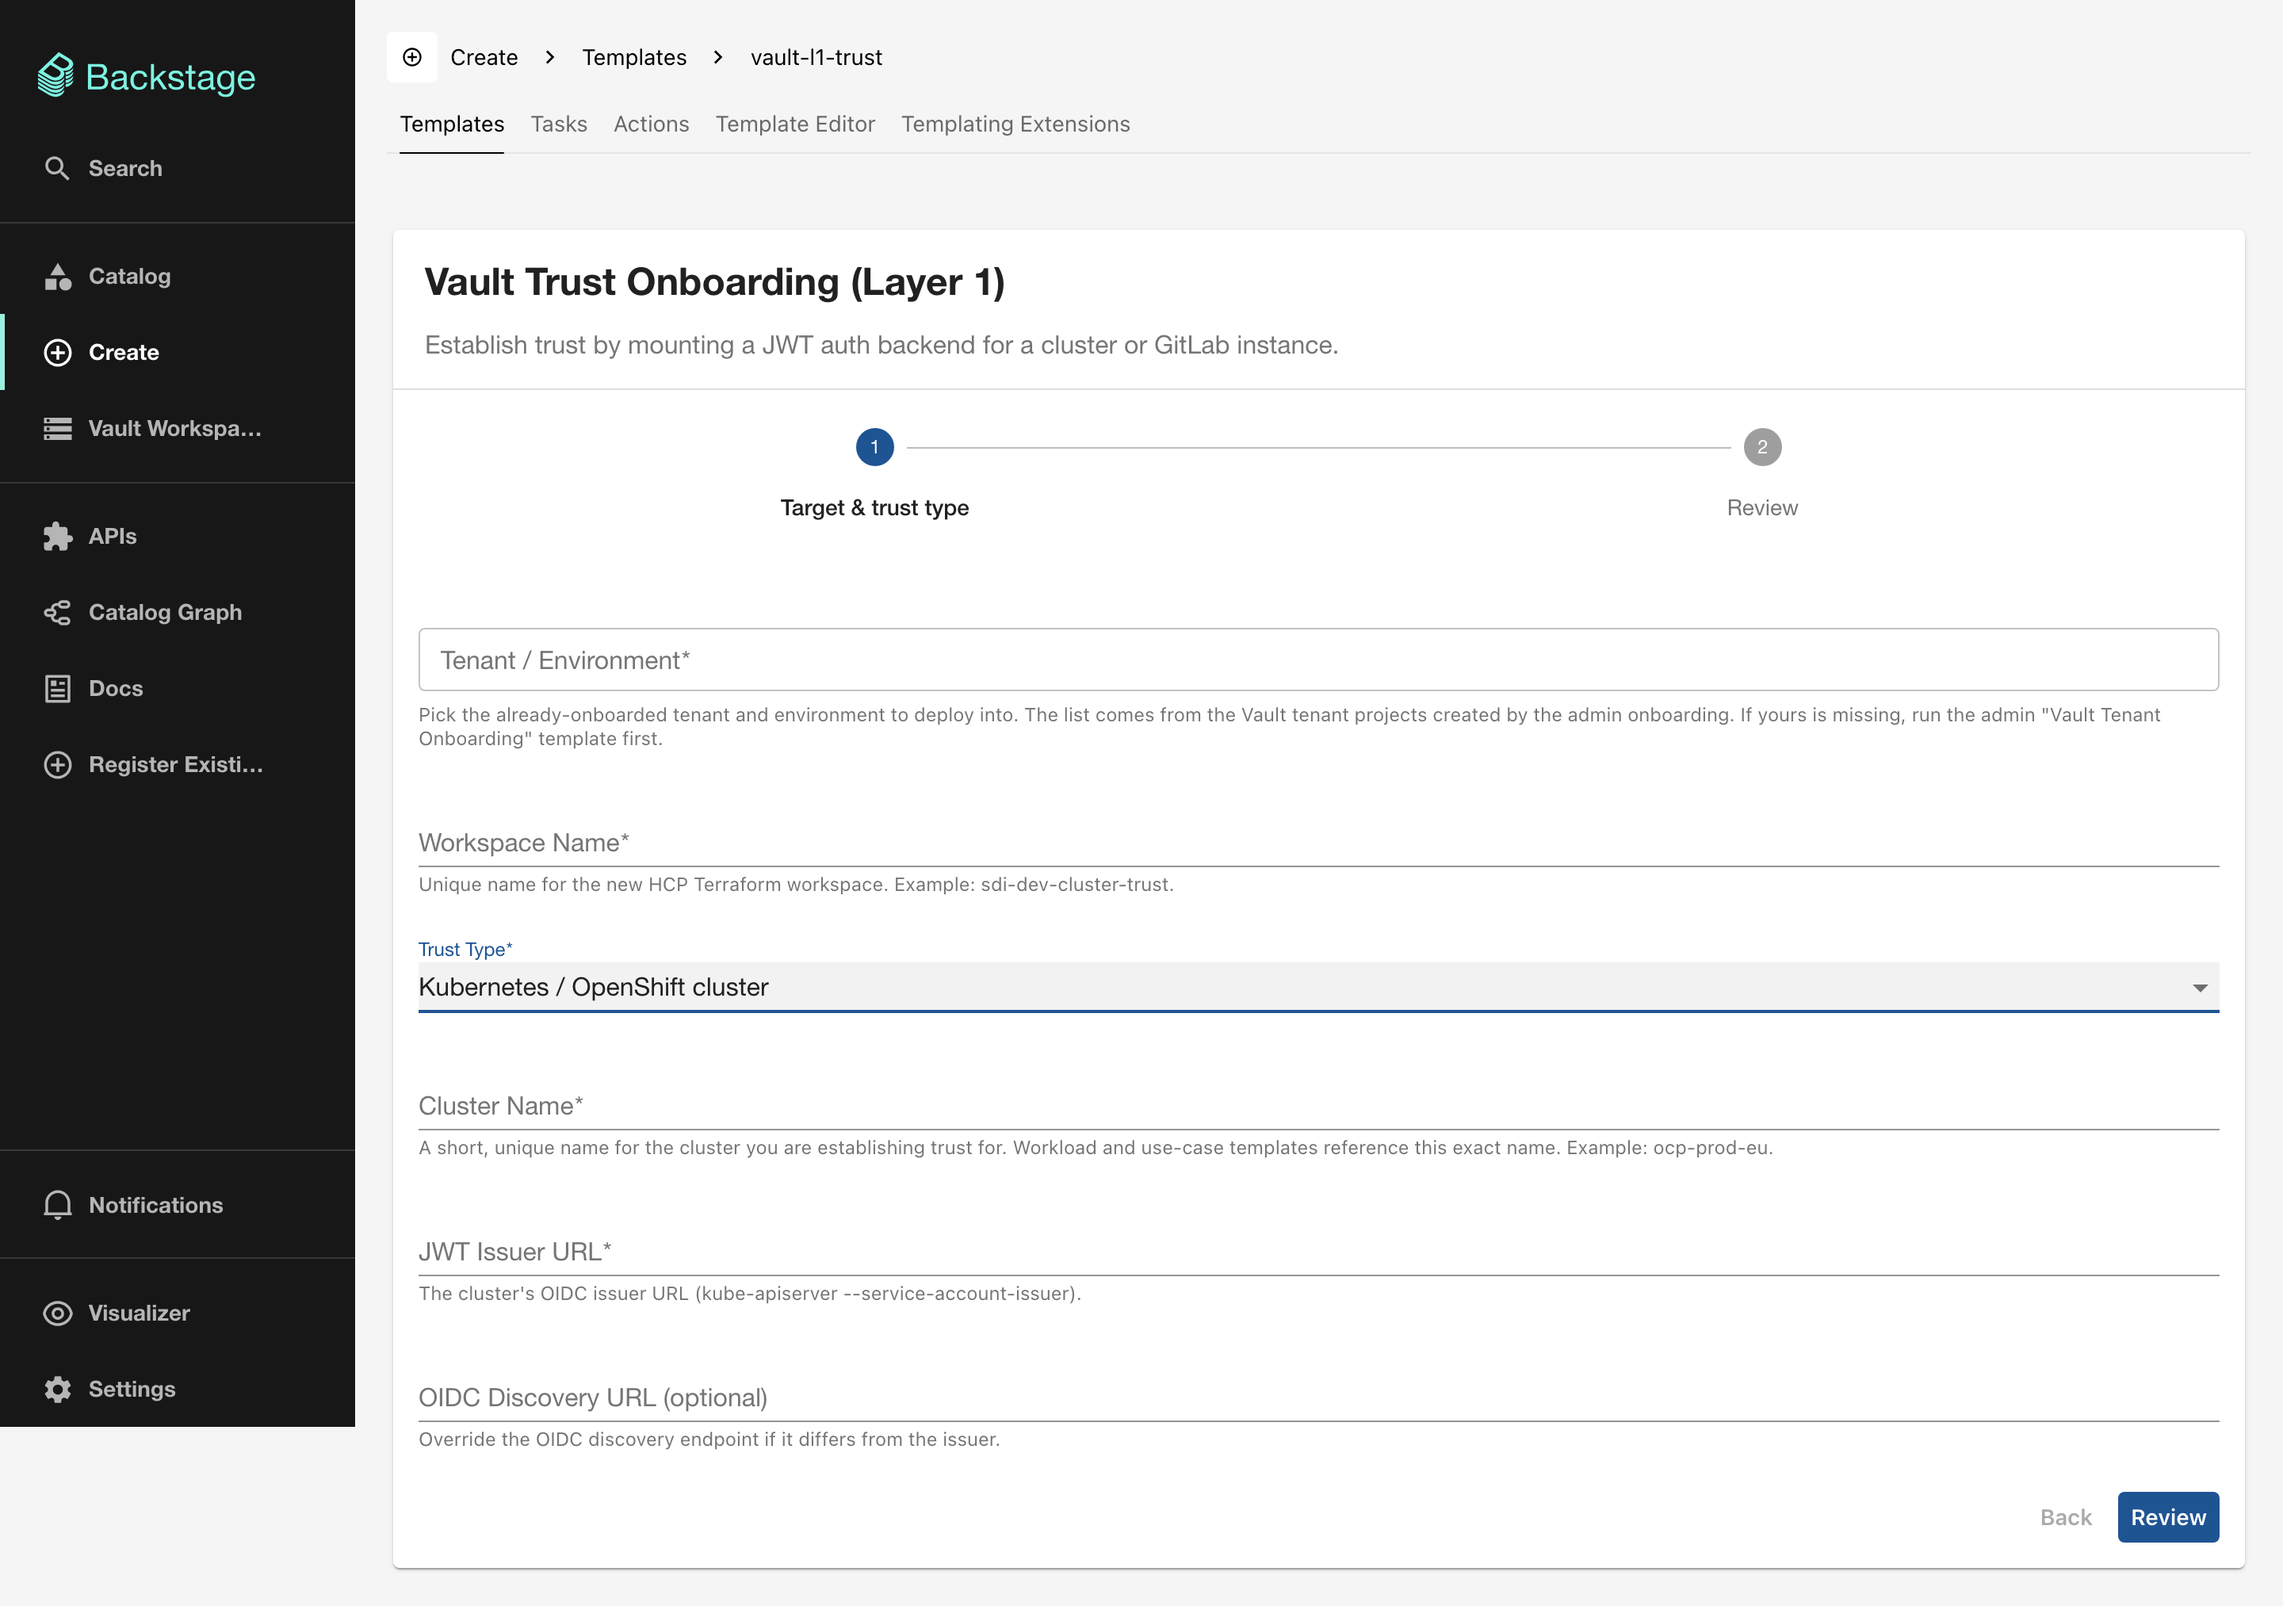
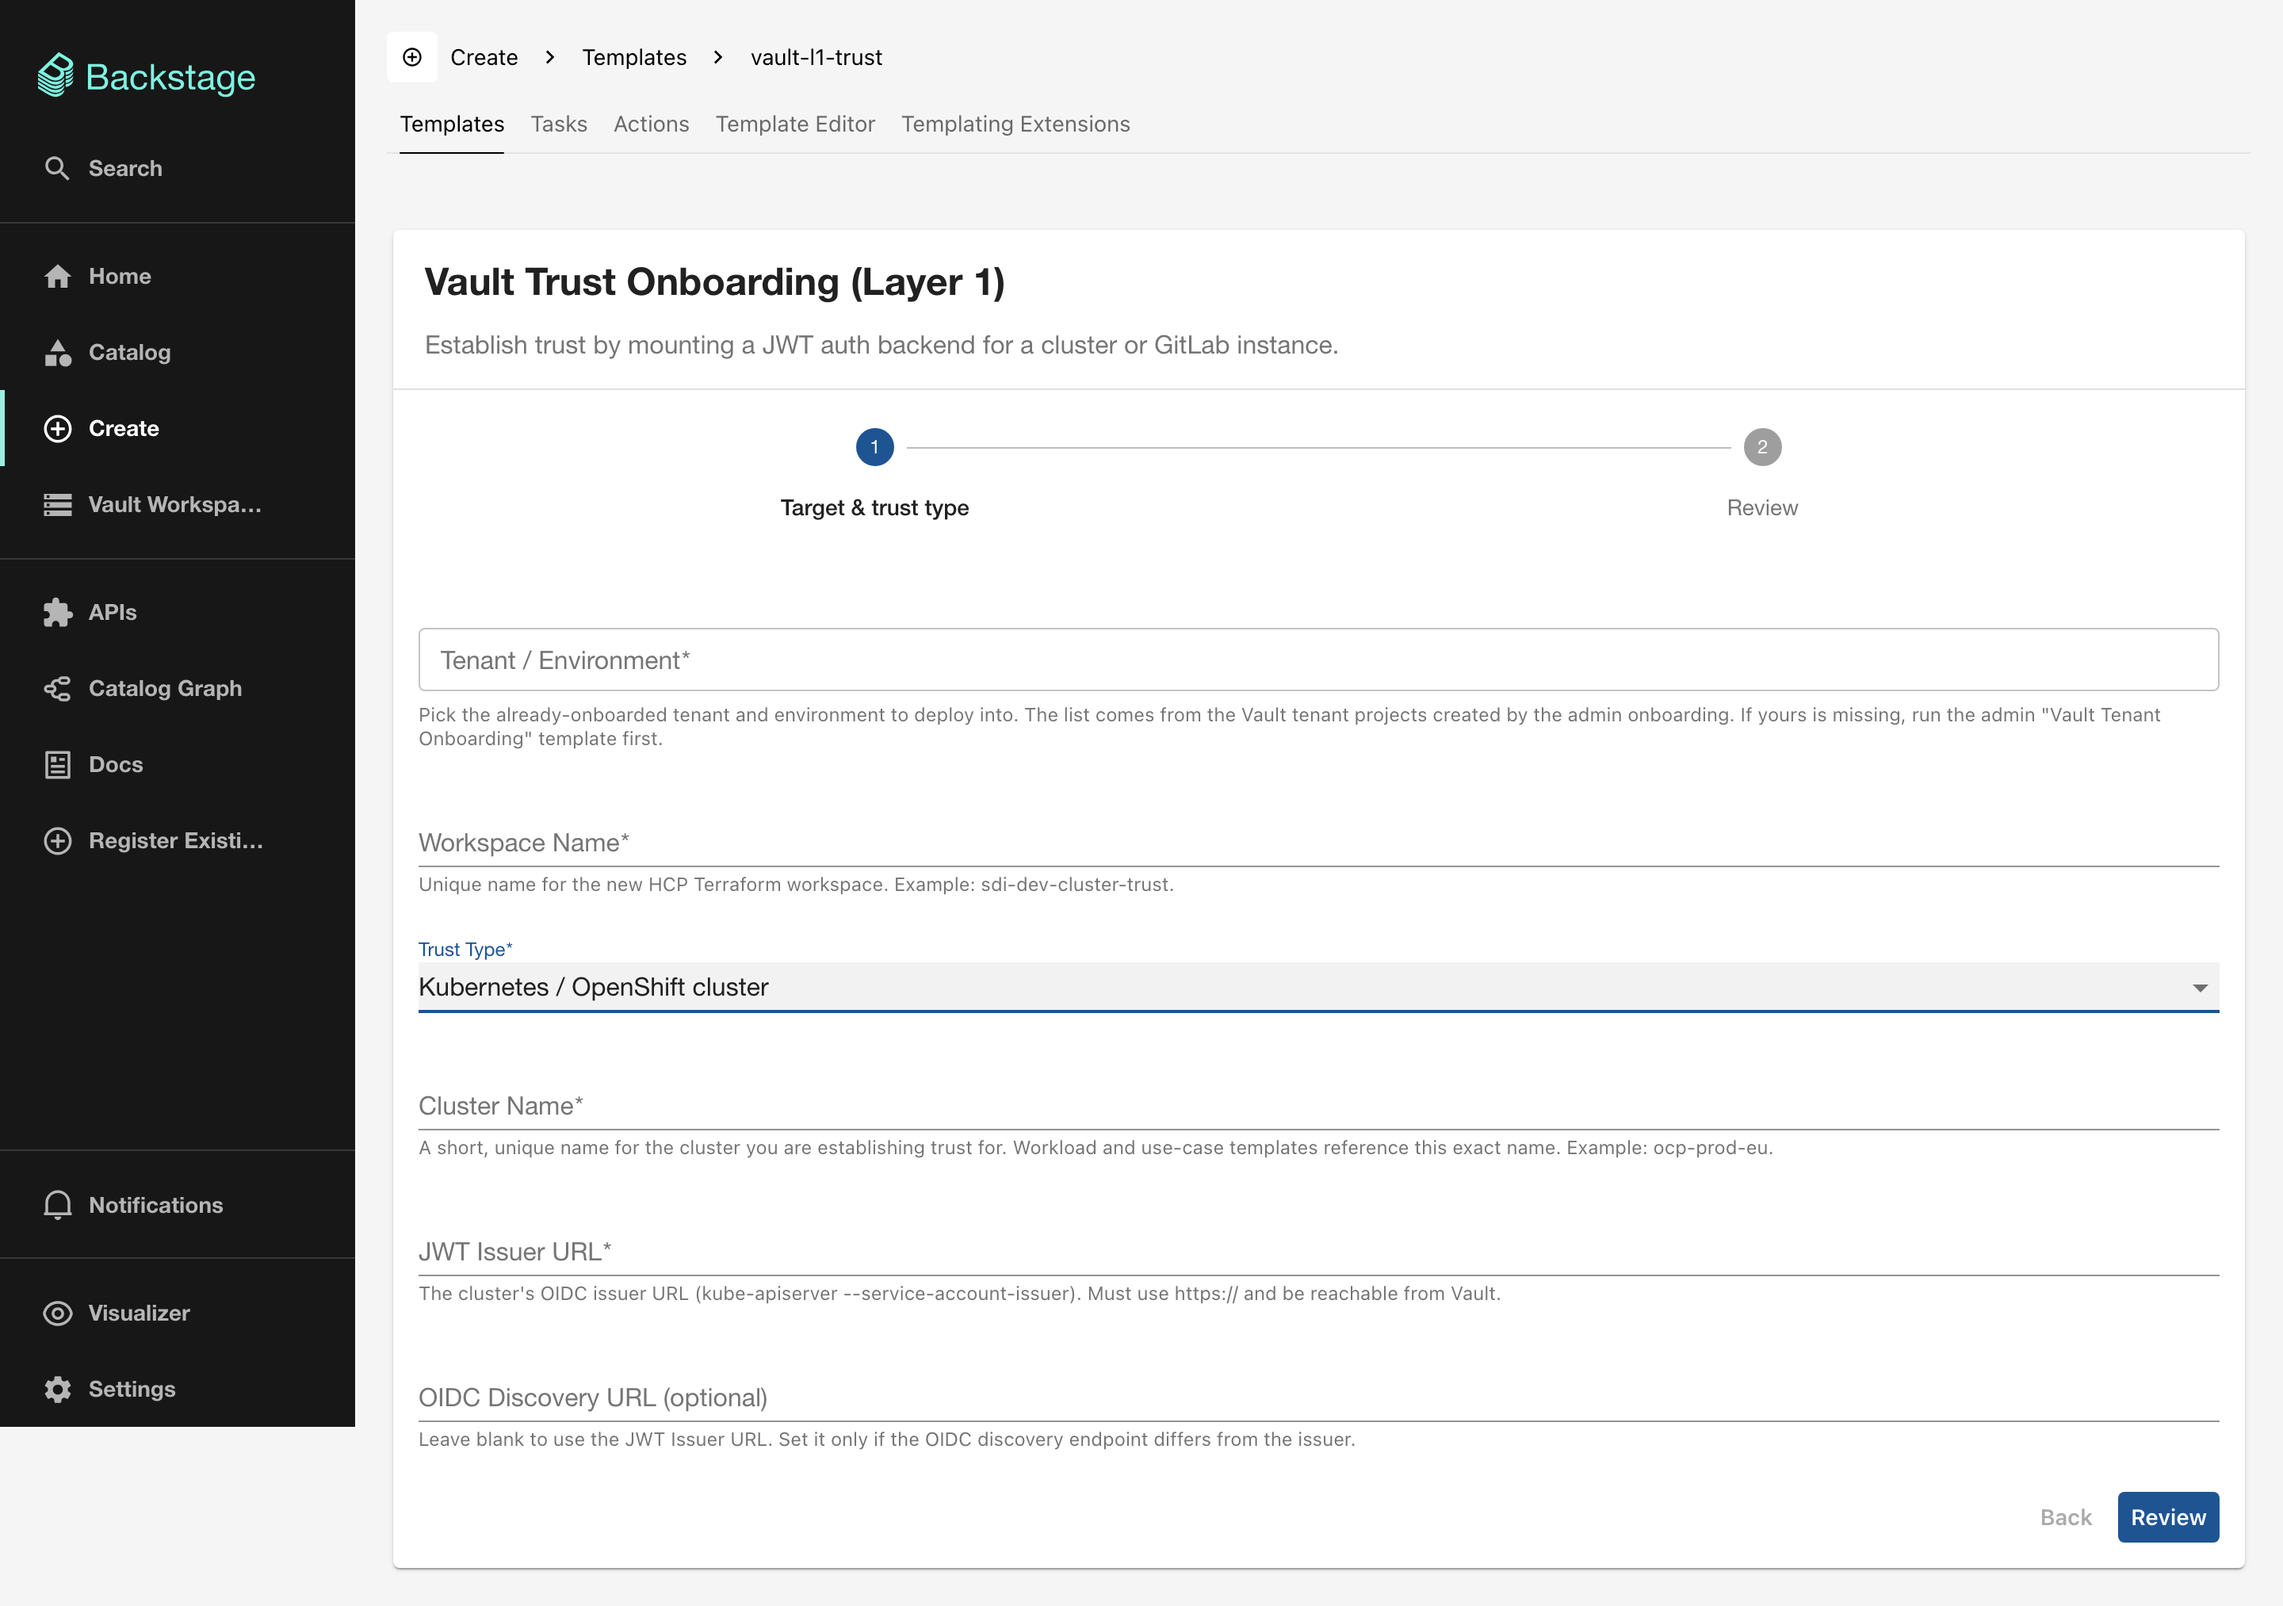
docs: refresh the trust form screenshot and the ingestion rule in AGENTS.md
The cluster trust form's issuer and discovery-URL help text changed, and
AGENTS.md still described ingestion as tag-only with process-lifetime
caches.

diff --git a/AGENTS.md b/AGENTS.md
@@ -39,7 +39,7 @@ Conventions baked into the Makefile (don't re-introduce the bugs they fix):
 - **`listWorkspaces` uses `?include=current_run`** to get real run status (`latest-run` is deprecated/relationship-only, not includable). Do not switch to `include=latest_run` (400s → breaks the whole refresh).
 - **`createWorkspace` payload is correct as written:** `data.relationships.vars.data[]` (type `"vars"`) and `data.relationships.project.data.type = "project"` (singular), per the no-code provisioning API. Do NOT "fix" it to `attributes.variables`/type `"projects"` — that is the regular workspace-vars API.
 - **Onboarded tenants are discovered from the admin project's `terraform-vault-hcptf-onboarding` workspace outputs** (`project_ids`/`project_names` maps), not from a project name/tag scan. Configure via `hcpTerraform.projects.adminProjectName`/`adminProjectId`.
-- **Workspace ingestion is gated on TWO conditions:** the `source-module-id` must resolve to a Vault-suite module (`layerForModule`) AND the workspace's project must be `Product:Vault`-tagged (`listVaultProjects`, skipped only if the org has zero tagged projects). This keeps unrelated no-code workspaces (rds, terramino, vpc, …) out of the catalog.
+- **Workspace ingestion is gated on TWO conditions:** the `source-module-id` must resolve to a Vault-suite module (`layerForModule`) AND the workspace's project must be `Product:Vault`-tagged (`listVaultProjects`, skipped only if the org has zero tagged projects) or be the admin project, which the bootstrap leaves untagged and which holds the L0 workspaces. The tagged-project and no-code module lists are cached for `LIST_CACHE_TTL_MS` (60 s), never for the process lifetime, so new tenants and newly published modules appear without a restart. This keeps unrelated no-code workspaces (rds, terramino, vpc, …) out of the catalog.
 - **`source-module-id` yields the SHORT registry name** (`add-kvv2`), but `MODULE_LAYER` keys are the full `terraform-vault-*` names, so `layerForModule` tries both. A short/long mismatch here silently labels every workspace `unknown` — regression-tested in `HcpTerraformWorkspaceProvider.test.ts`. The `hcptf.io/module-name` annotation is normalized to the full name via `canonicalModuleName`, because template `catalogFilter`s (the pgsql/gitlab parent pickers) match on the full `terraform-vault-*` name.
 - **Layer chaining (graph):** the provision action tags each child workspace `parent:<name>` (from the template's parent EntityPicker); the provider reads that tag and emits `spec.dependsOn` so the catalog graph shows the L1→L2→L3 chain. Only workspaces created after this change are linked (existing ones have no parent tag). Workspace resources are also enriched with `hcptf.io/tenant|environment|target` from their project (matched to a `vault-target` by project id); `hcptf.io/target` is the vault-target entity name the `VaultNextLayerCard` pre-selects when deep-linking to the next template via `?formData=`. The card pre-selects the workspace itself as the parent, which bypasses the picker's `catalogFilter`, so `nextLayerLink` offers the link only for the modules those pickers accept (cluster/gitlab trusts, k8s/gitlab workloads) and only once the output the next template reads is published; otherwise it says the workspace must be applied first.
 - **Catalog default filter is `all`** (`catalog-filter:catalog/list` in `app-config.yaml`). With guest/dev auth the user owns nothing, so the default `owned` filter renders an empty catalog.
